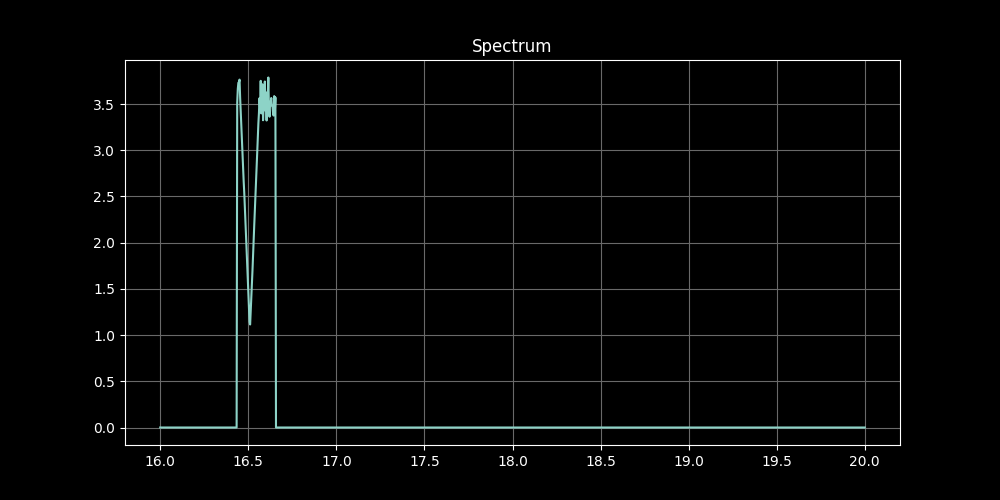
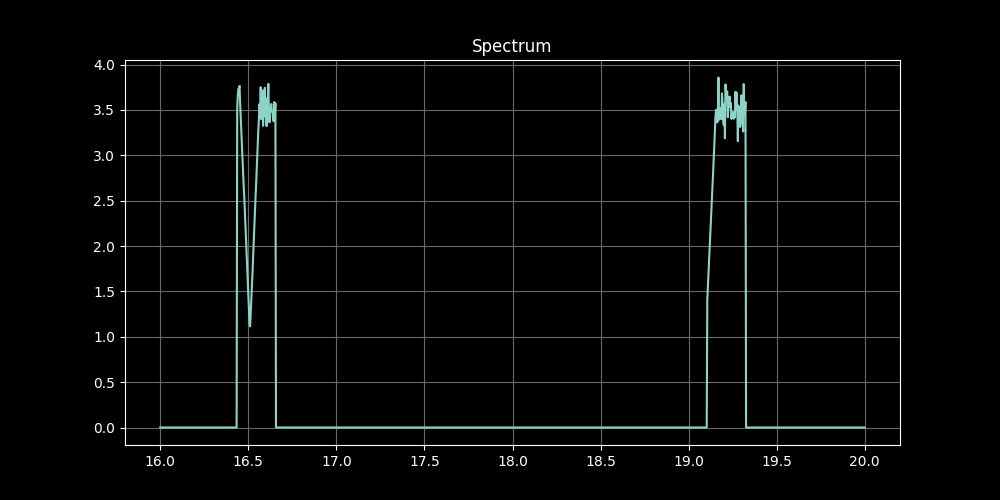
add second iteration to spectrum

diff --git a/data_processor.py b/data_processor.py
@@ -4,13 +4,19 @@ from matplotlib.gridspec import GridSpec
 import os
 
 
-# TODO reload new data shape
 # TODO correct single iteration to spectrum, test with higher setting data files
-# TODO Combine two nmr samples with different HF settings
 # TODO load all data 
 # TODO Create single nmr resonance data
 # TODO reshape NMR SPectrum
 def process_data(path):
+
+    # Initialize empty NMR Spectrum
+    nmr_spectrum = np.zeros([2, 1200])
+    nmr_spectrum[0,:] = np.linspace(16, 20, num=1200)
+
+
+
+    ## First Iteration
 
     # Single data load
     file_to_load = "163344.txt"
@@ -21,16 +27,33 @@ def process_data(path):
 
     # Extract hf_setting
     hf_setting = extract_decimal(file_to_load)
-    # print(hf_setting)
-
-    # Initialize empty NMR Spectrum
-    nmr_spectrum = np.zeros([2, 1200])
-    nmr_spectrum[0,:] = np.linspace(16, 20, num=1200)
 
     # Merge data from single iteration
     nmr_iteration, lf_iteration = merge_iteration(nmr, lf)
 
     nmr_spectrum = iteration_combine(nmr_spectrum, nmr_iteration, lf_iteration, hf_setting)
+
+
+
+    ## Second Iteration
+
+    # Single data load
+    file_to_load = "190056.txt"
+    data_load = np.loadtxt(path + file_to_load)
+    
+    lf = data_load[0,:]
+    nmr = data_load[1,:]
+
+    # Extract hf_setting
+    hf_setting = extract_decimal(file_to_load)
+
+    # Merge data from single iteration
+    nmr_iteration, lf_iteration = merge_iteration(nmr, lf)
+
+
+    nmr_spectrum = iteration_combine(nmr_spectrum, nmr_iteration, lf_iteration, hf_setting)
+
+
     
     # Plot the spectrum
     plot_spectrum(nmr_spectrum)
